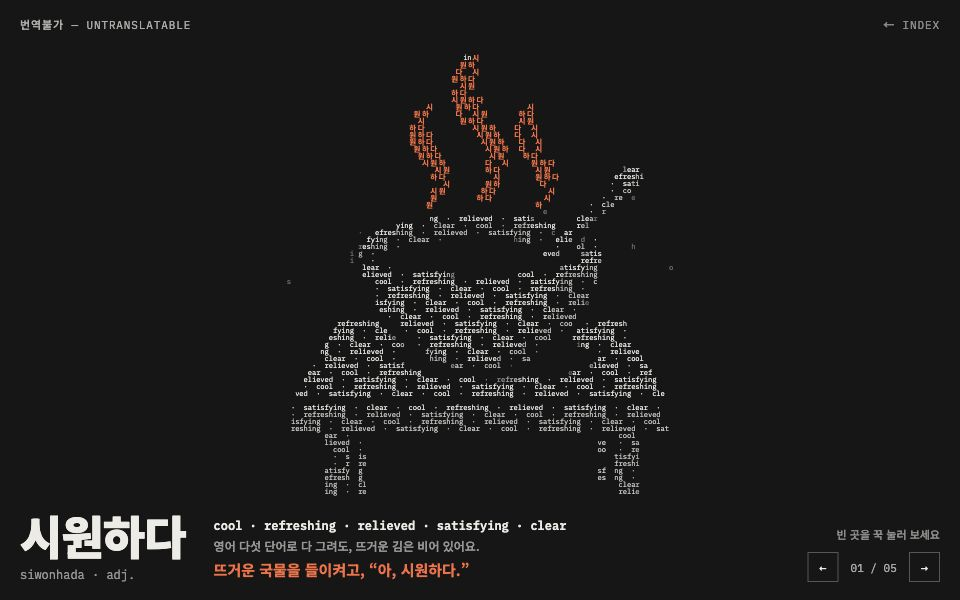
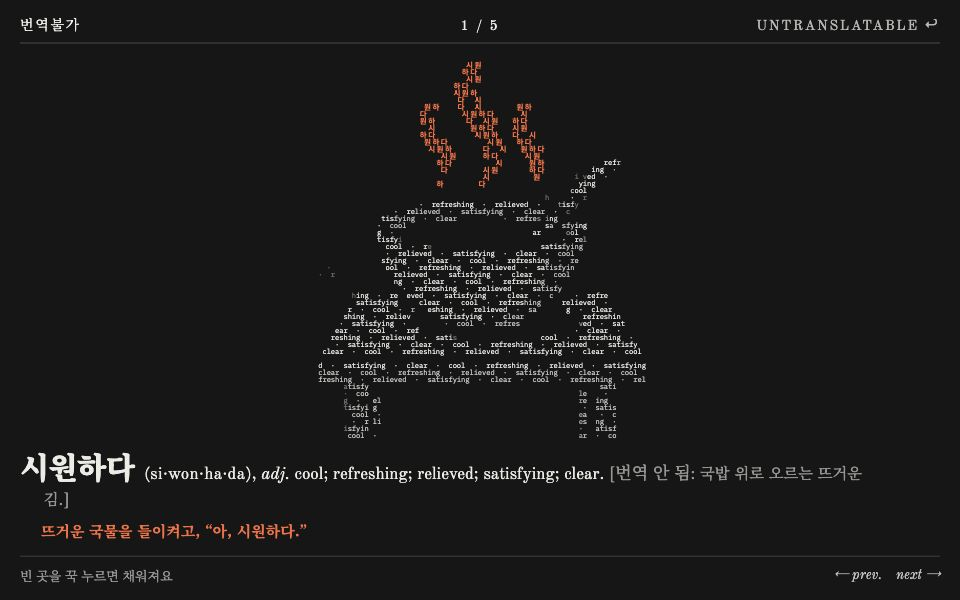
day-261117 설명을 사전 항목 형식으로: 표제어·발음·품사·뜻풀이·[번역 안 됨]

Changed region(s): [[0.0, 0.03, 0.9688, 0.99], [0.8438, 0.87, 1.0, 0.99], [0.5625, 0.87, 0.5938, 0.9]]

diff --git a/day-261117/index.html b/day-261117/index.html
@@ -5,42 +5,41 @@
 <meta name="viewport" content="width=device-width,initial-scale=1,viewport-fit=cover">
 <title>Day 261117 — 번역불가</title>
 <link rel="preconnect" href="https://fonts.googleapis.com">
-<link rel="stylesheet" href="https://fonts.googleapis.com/css2?family=IBM+Plex+Mono:wght@400;600&family=Noto+Sans+KR:wght@500;700;900&display=swap">
+<link rel="stylesheet" href="https://fonts.googleapis.com/css2?family=IBM+Plex+Mono:wght@400;600&family=Noto+Sans+KR:wght@700&family=Noto+Serif+KR:wght@400;700;900&family=Old+Standard+TT:ital,wght@0,400;0,700;1,400&display=swap">
 <style>
   html, body { margin: 0; height: 100%; overflow: hidden; background: #161616; color: #ecebe6; font-family: 'IBM Plex Mono', 'Noto Sans KR', monospace; touch-action: none; user-select: none; -webkit-user-select: none; }
   canvas { position: fixed; inset: 0; width: 100%; height: 100%; display: block; }
-  #top { position: fixed; left: 20px; right: 20px; top: 16px; display: flex; justify-content: space-between; font-size: 11px; letter-spacing: .08em; text-transform: uppercase; opacity: .7; z-index: 2; }
-  #cap { position: fixed; left: 20px; right: 20px; bottom: 18px; display: grid; grid-template-columns: auto 1fr auto; gap: 8px 28px; align-items: end; z-index: 2; }
-  #word { font: 900 46px/1 'Noto Sans KR', sans-serif; letter-spacing: -.02em; }
-  #roman { font-size: 12px; opacity: .6; margin-top: 8px; }
-  #info { font-size: 12px; line-height: 1.7; max-width: 560px; }
-  #en { font-weight: 600; }
-  #note { opacity: .6; font-family: 'Noto Sans KR', sans-serif; font-size: 12px; }
-  #ex { font-family: 'Noto Sans KR', sans-serif; font-weight: 700; font-size: 15px; color: #ff6a3d; min-height: 24px; opacity: 0; transition: opacity .5s; }
+  #top { position: fixed; left: 20px; right: 20px; top: 14px; display: grid; grid-template-columns: 1fr auto 1fr; align-items: baseline; padding-bottom: 7px; border-bottom: 1px solid rgba(236,235,230,.25); font: 400 14px 'Old Standard TT', 'Noto Serif KR', serif; letter-spacing: .12em; text-transform: uppercase; z-index: 2; }
+  #top .r { text-align: right; }
+  .back { color: inherit; text-decoration: none; opacity: .75; }
+  #cap { position: fixed; left: 20px; right: 20px; bottom: 58px; z-index: 2; font: 400 17px/1.5 'Old Standard TT', 'Noto Serif KR', serif; }
+  .entry { margin: 0; max-width: 820px; padding-left: 1.4em; text-indent: -1.4em; }
+  #word { font: 900 30px/1 'Noto Serif KR', serif; letter-spacing: -.01em; margin-right: .15em; }
+  #pron { letter-spacing: .02em; }
+  .br { color: rgba(236,235,230,.6); }
+  .br #hole { font-family: 'Noto Serif KR', serif; font-size: .9em; }
+  #ex { margin: 6px 0 0 1.4em; font: 700 15px/1.5 'Noto Serif KR', serif; color: #ff6a3d; min-height: 23px; opacity: 0; transition: opacity .5s; }
   #ex.on { opacity: 1; }
-  #nav { display: flex; flex-direction: column; align-items: flex-end; gap: 10px; }
-  #hint { font-family: 'Noto Sans KR', sans-serif; font-size: 11px; opacity: .55; }
-  .btns { display: flex; gap: 6px; align-items: center; }
-  .btns button { background: transparent; color: inherit; border: 1px solid rgba(236,235,230,.3); font: 400 12px 'IBM Plex Mono', monospace; padding: 6px 11px; cursor: pointer; }
-  .btns button:hover { background: rgba(236,235,230,.1); }
-  #idx { font-size: 11px; opacity: .7; margin: 0 6px; }
-  .back { color: inherit; opacity: .8; text-decoration: none; }
+  #foot { position: fixed; left: 20px; right: 20px; bottom: 14px; display: flex; justify-content: space-between; align-items: center; gap: 12px; padding-top: 8px; border-top: 1px solid rgba(236,235,230,.25); font: 400 13px 'Old Standard TT', 'Noto Serif KR', serif; z-index: 2; }
+  #hint { opacity: .6; }
+  .btns { display: flex; gap: 14px; align-items: baseline; }
+  .btns button { background: none; border: 0; padding: 2px 0; color: inherit; font: italic 400 14px 'Old Standard TT', serif; cursor: pointer; opacity: .8; }
+  .btns button:hover { opacity: 1; text-decoration: underline; }
   @media (max-width: 640px) {
-    #cap { grid-template-columns: 1fr auto; }
-    #info { grid-column: 1 / -1; grid-row: 2; }
-    #word { font-size: 34px; }
-    #nav { grid-column: 2; grid-row: 1; }
+    #top { font-size: 11px; }
+    #cap { font-size: 15px; bottom: 54px; }
+    #word { font-size: 24px; }
   }
 </style>
 </head>
 <body>
 <canvas id="c"></canvas>
-<header id="top"><span>번역불가 — untranslatable</span><a class="back" href="../index.html">← index</a></header>
+<header id="top"><span>번역불가</span><span id="idx"></span><span class="r"><a class="back" href="../index.html">Untranslatable ↩</a></span></header>
 <div id="cap">
-  <div><div id="word"></div><div id="roman"></div></div>
-  <div id="info"><div id="en"></div><div id="note"></div><div id="ex"></div></div>
-  <div id="nav"><div id="hint">빈 곳을 꾹 눌러 보세요</div><div class="btns"><button id="prev" aria-label="이전">←</button><span id="idx"></span><button id="next" aria-label="다음">→</button></div></div>
+  <p class="entry"><b id="word"></b> (<span id="pron"></span>), <i id="pos"></i> <span id="en"></span>. <span class="br">[번역 안 됨: <span id="hole"></span>.]</span></p>
+  <p id="ex"></p>
 </div>
+<footer id="foot"><span id="hint">빈 곳을 꾹 누르면 채워져요</span><span class="btns"><button id="prev">← prev.</button><button id="next">next →</button></span></footer>
 <script type="module" src="main.js"></script>
 </body>
 </html>

diff --git a/day-261117/main.js b/day-261117/main.js
@@ -1,9 +1,9 @@
 const SCENES = [
-  { key: 'siwon', word: '시원하다', roman: 'siwonhada · adj.', en: ['cool', 'refreshing', 'relieved', 'satisfying', 'clear'], note: '영어 다섯 단어로 다 그려도, 뜨거운 김은 비어 있어요.', ex: '뜨거운 국물을 들이켜고, “아, 시원하다.”' },
-  { key: 'jeong', word: '정', roman: 'jeong · n.', en: ['affection', 'attachment', 'bond', 'warmth', 'love'], note: '두 사람은 그려지는데, 둘 사이는 채워지지 않아요.', ex: '미운 정도 정이다.' },
-  { key: 'nunchi', word: '눈치', roman: 'nunchi · n.', en: ['tact', 'sense', 'awareness', 'social cue', 'reading the room'], note: '사람도 상도 그려지는데, 오가는 시선은 비어 있어요.', ex: '말 안 해도 눈치로 알지.' },
-  { key: 'dapdap', word: '답답하다', roman: 'dapdapada · adj.', en: ['stuffy', 'frustrated', 'suffocating', 'stifled', 'heavy'], note: '좁은 방은 그려지는데, 가슴은 비어 있어요.', ex: '말이 안 통해서 답답해.' },
-  { key: 'aswip', word: '아쉽다', roman: 'aswipda · adj.', en: ['pity', 'regret', 'miss', 'too bad', 'wish'], note: '떠나는 뒷모습은 그려지는데, 흔드는 손은 비어 있어요.', ex: '벌써 가? 아쉽다.' },
+  { key: 'siwon', word: '시원하다', pron: 'si·won·ha·da', pos: 'adj.', hole: '국밥 위로 오르는 뜨거운 김', en: ['cool', 'refreshing', 'relieved', 'satisfying', 'clear'], ex: '뜨거운 국물을 들이켜고, “아, 시원하다.”' },
+  { key: 'jeong', word: '정', pron: 'jeong', pos: 'n.', hole: '기대앉은 두 사람 사이', en: ['affection', 'attachment', 'bond', 'warmth', 'love'], ex: '미운 정도 정이다.' },
+  { key: 'nunchi', word: '눈치', pron: 'nun·chi', pos: 'n.', hole: '상 위로 오가는 시선', en: ['tact', 'sense', 'awareness', 'social cue', 'reading the room'], ex: '말 안 해도 눈치로 알지.' },
+  { key: 'dapdap', word: '답답하다', pron: 'dap·dap·a·da', pos: 'adj.', hole: '손을 얹은 가슴', en: ['stuffy', 'frustrated', 'suffocating', 'stifled', 'heavy'], ex: '말이 안 통해서 답답해.' },
+  { key: 'aswip', word: '아쉽다', pron: 'a·swip·da', pos: 'adj.', hole: '떠나며 흔드는 손', en: ['pity', 'regret', 'miss', 'too bad', 'wish'], ex: '벌써 가? 아쉽다.' },
 ];
 
 const cv = document.getElementById('c'), ctx = cv.getContext('2d');
@@ -34,7 +34,7 @@ function load(key) {
 function build() {
   const S = SCENES[cur], m = maps[S.key];
   const capTop = $('cap').getBoundingClientRect().top;
-  const top = 44, bot = capTop - 14, aw = W - 24, ah = Math.max(120, bot - top);
+  const top = 52, bot = capTop - 14, aw = W - 24, ah = Math.max(120, bot - top);
   const k = Math.min(aw / m.w, ah / m.h), iw = m.w * k, ih = m.h * k;
   const ch = clamp(Math.max(ih, iw * .55) / 78, W < 640 ? 5 : 7, 11), cw = ch * .6;
   const cols = Math.floor(iw / cw), rows = Math.floor(ih / ch);
@@ -68,9 +68,9 @@ function build() {
 function enter(i) {
   cur = (i + SCENES.length) % SCENES.length;
   const S = SCENES[cur];
-  $('word').textContent = S.word; $('roman').textContent = S.roman;
-  $('en').textContent = S.en.join(' · '); $('note').textContent = S.note; $('ex').textContent = S.ex; $('ex').classList.remove('on');
-  $('idx').textContent = `${String(cur + 1).padStart(2, '0')} / ${String(SCENES.length).padStart(2, '0')}`;
+  $('word').textContent = S.word; $('pron').textContent = S.pron; $('pos').textContent = S.pos;
+  $('en').textContent = S.en.join('; '); $('hole').textContent = S.hole; $('ex').textContent = S.ex; $('ex').classList.remove('on');
+  $('idx').textContent = `${cur + 1} / ${SCENES.length}`;
   history.replaceState(null, '', '#' + (cur + 1));
   press.R = 0; t = 0;
   build();
